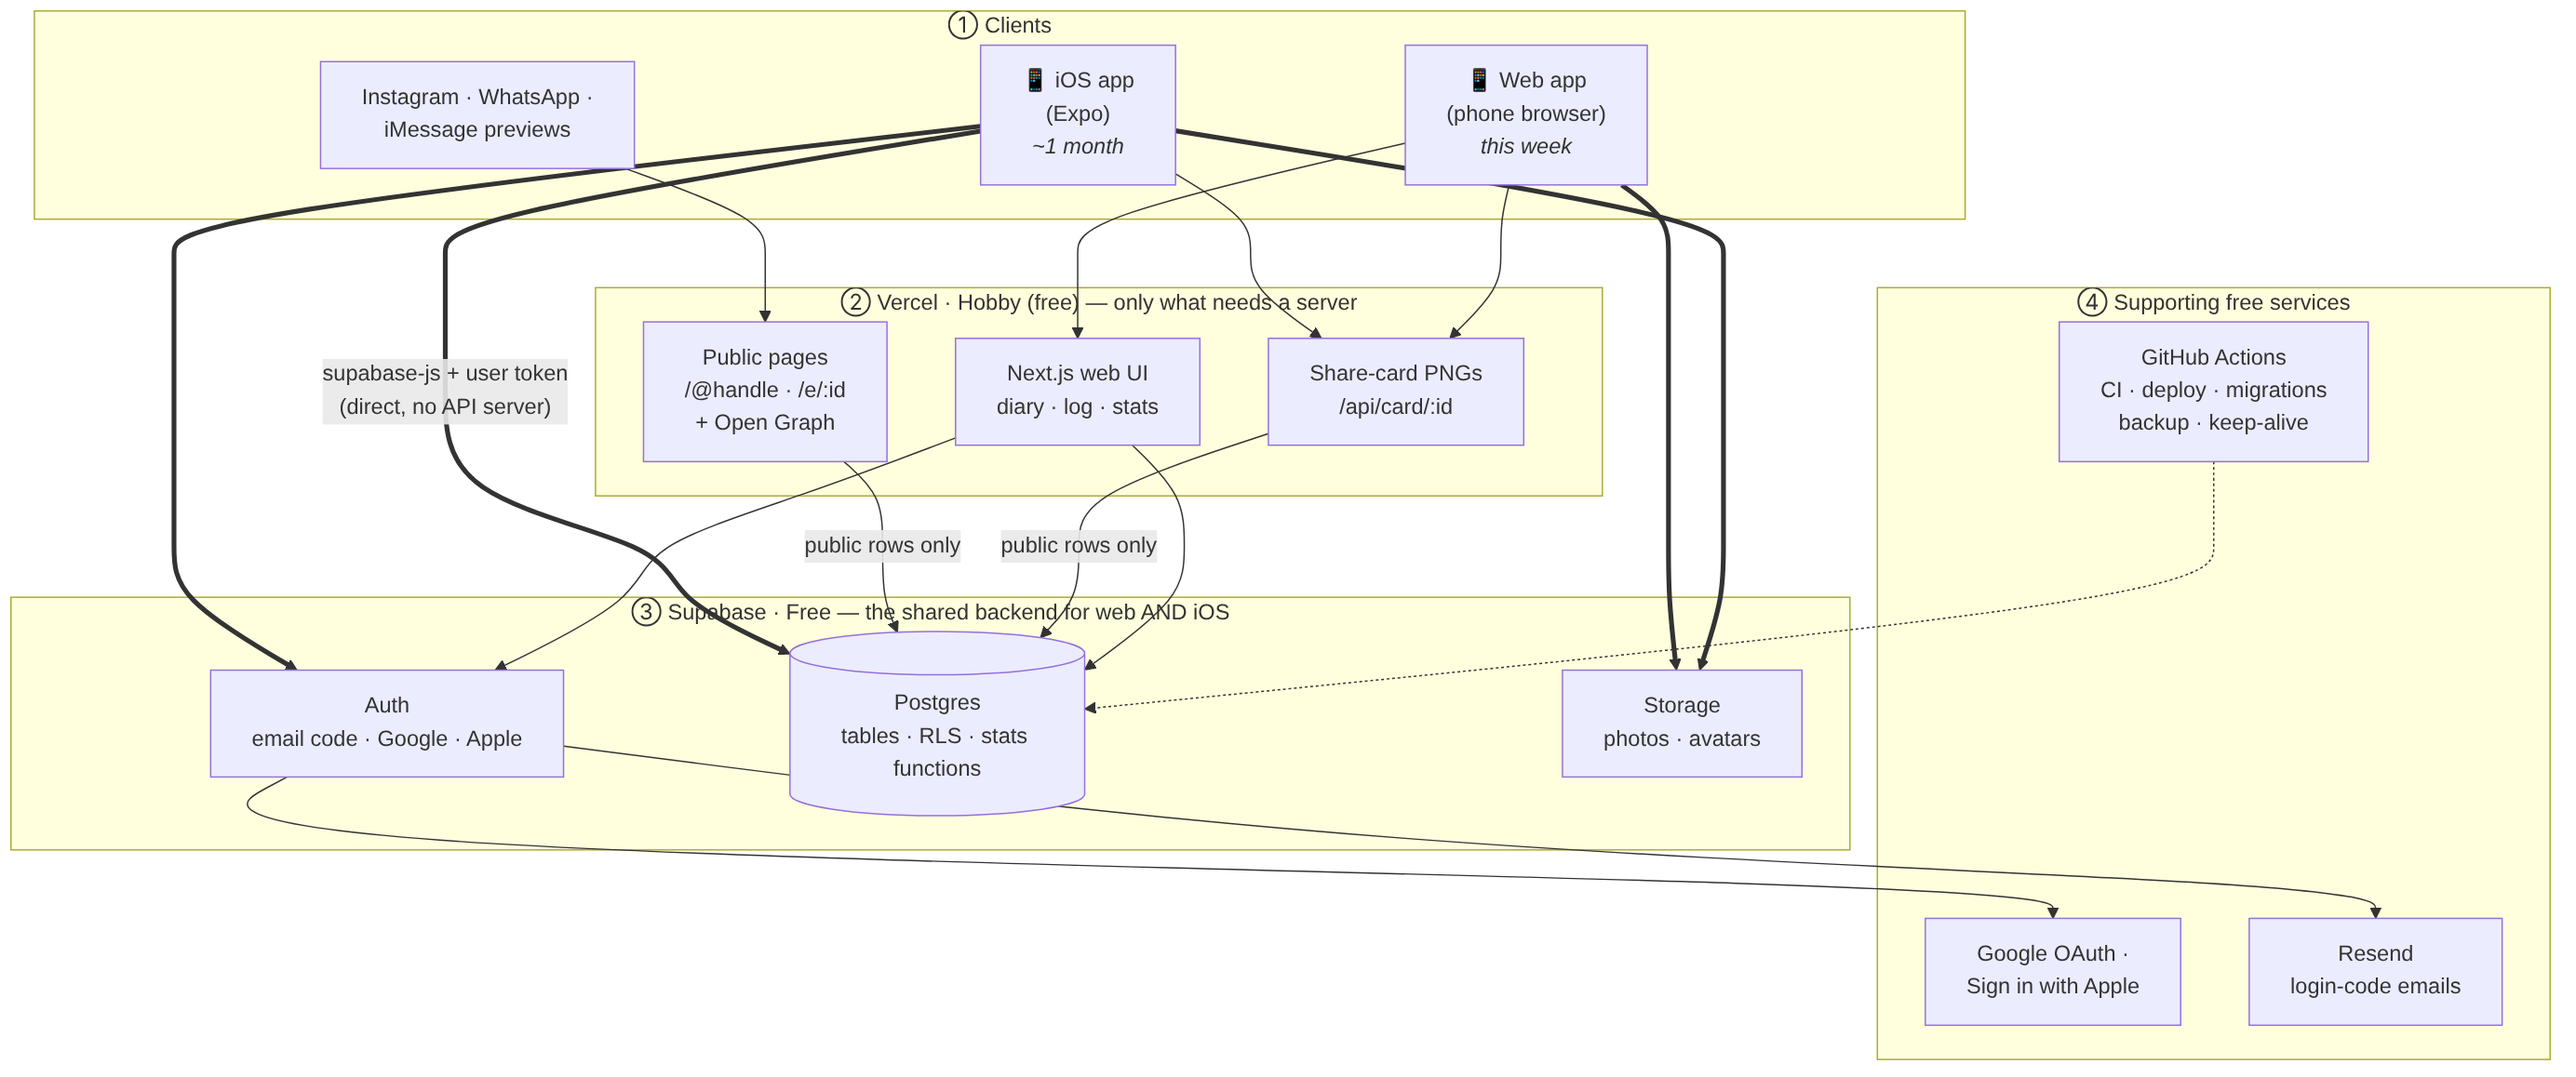
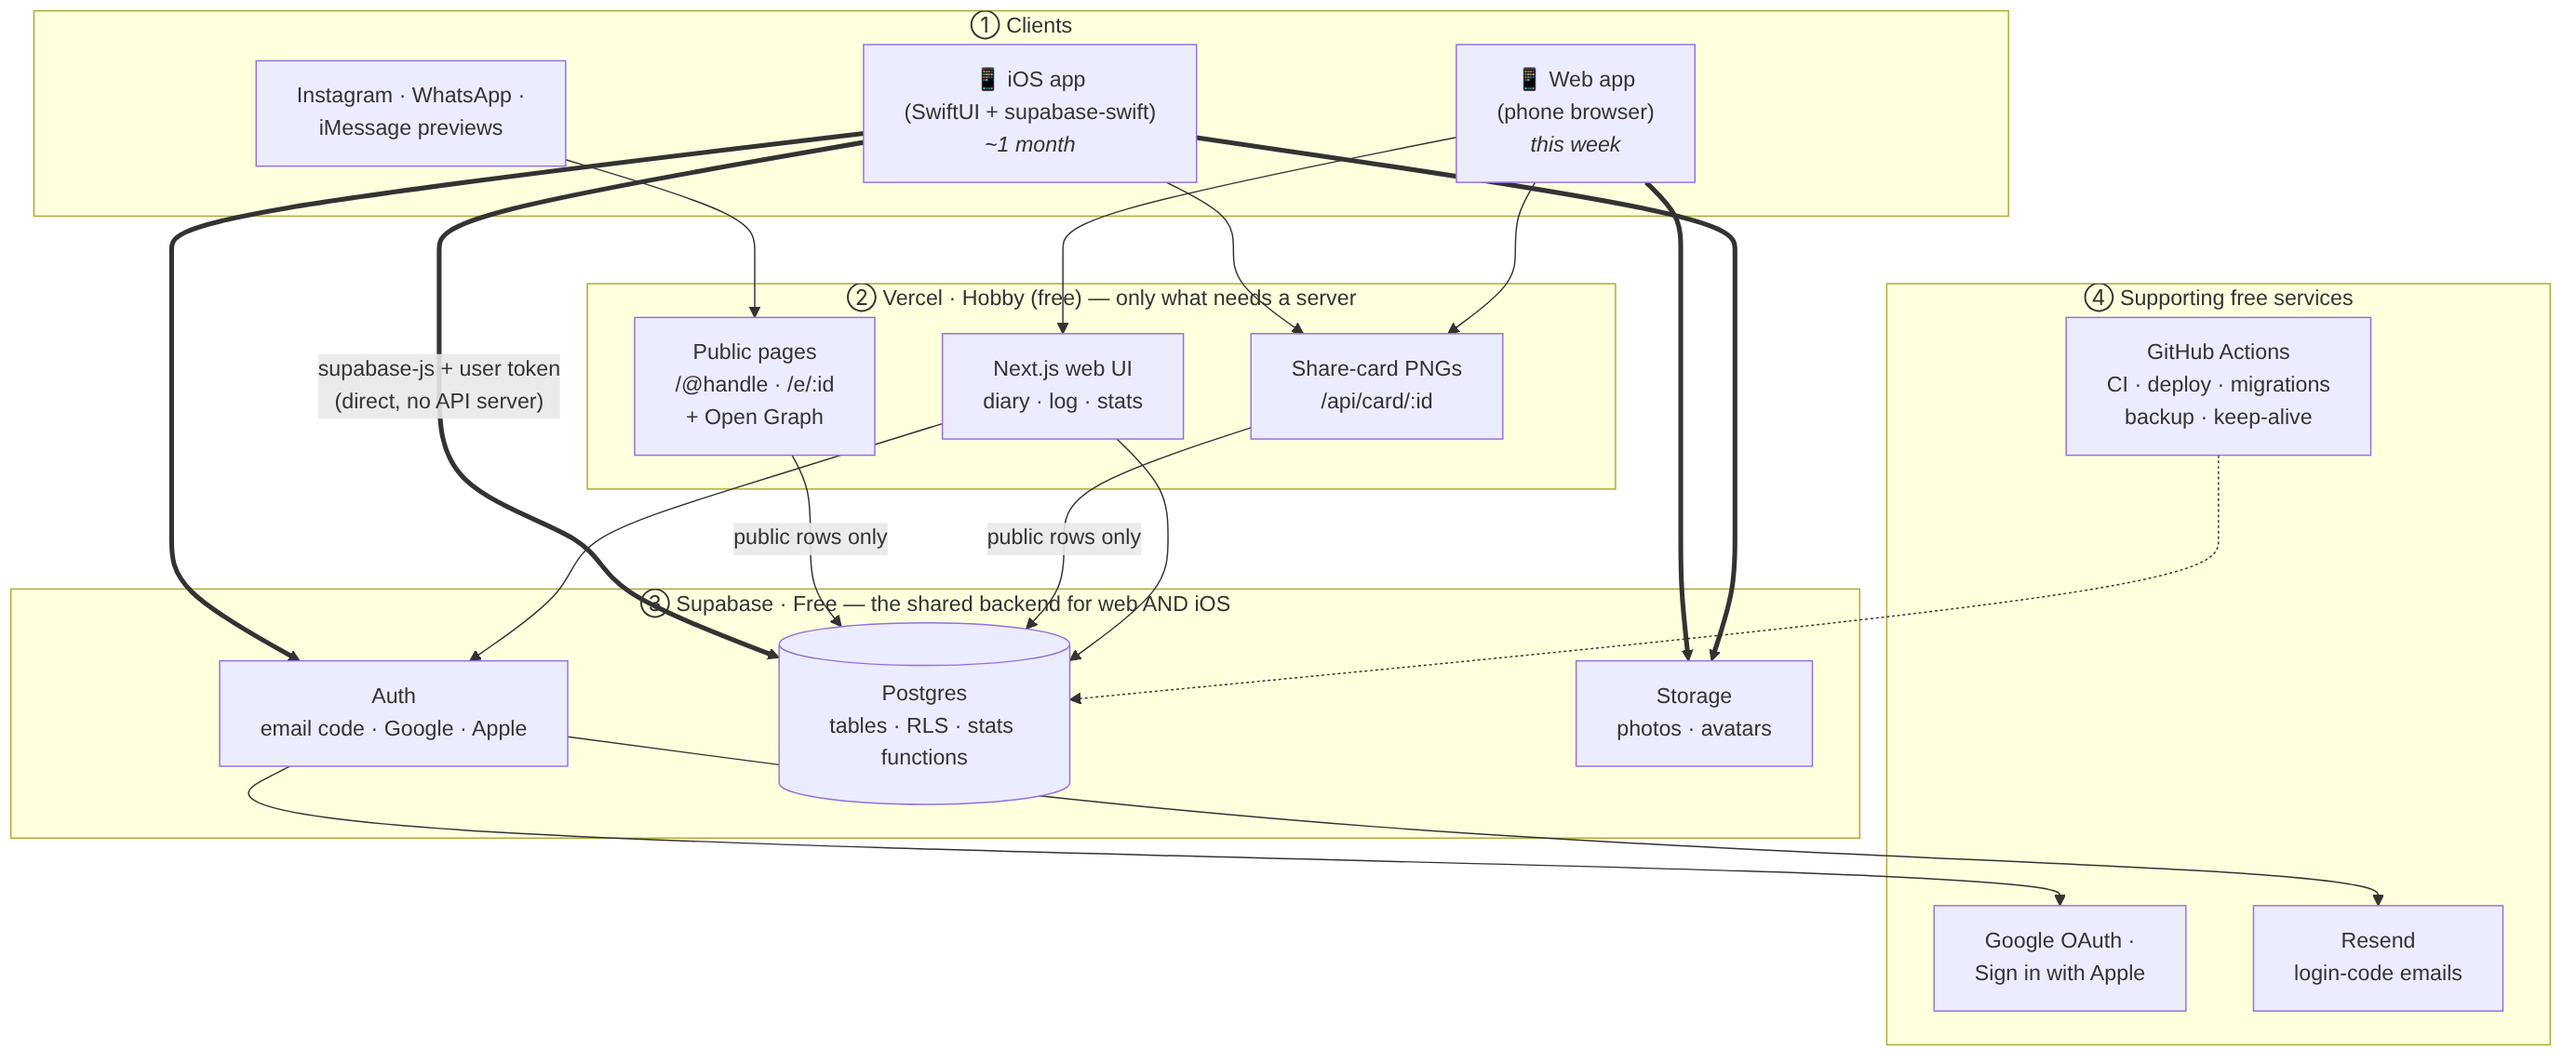
Record decisions: native SwiftUI for iOS, entries default to public
Claude-Session: https://claude.ai/code/session_01VvqxA56JYgsPsD6WTLWJTS

diff --git a/docs/ARCHITECTURE.md b/docs/ARCHITECTURE.md
@@ -27,7 +27,7 @@ flowchart TB
   subgraph clients["① Clients"]
     direction LR
     WEB["📱 Web app<br/>(phone browser)<br/><i>this week</i>"]
-    IOS["📱 iOS app<br/>(Expo)<br/><i>~1 month</i>"]
+    IOS["📱 iOS app<br/>(SwiftUI + supabase-swift)<br/><i>~1 month</i>"]
     SOC["Instagram · WhatsApp ·<br/>iMessage previews"]
   end
 
@@ -103,7 +103,7 @@ Free-tier limits change often. Check the vendor pricing pages before relying on 
 | Auth | **Supabase Auth** | Email one-time code, Google, Apple | 50,000 monthly active users |
 | File storage | **Supabase Storage** | Entry photos, avatars | 1 GB |
 | Login emails | **Resend** (via Supabase custom SMTP) | Sends sign-in codes | ~3,000/mo, 100/day |
-| iOS app | **Expo** (EAS Build free tier) | Builds and submits the iOS app | Limited free cloud builds/mo; local builds unlimited |
+| iOS app | **Xcode** + TestFlight | Build locally, beta-test via TestFlight | Free with the Apple Developer Program. Xcode Cloud includes some free build hours/mo if CI is wanted. Avoid macOS GitHub runners on a private repo: they burn free minutes at 10×. |
 | Code, CI, cron | **GitHub** + Actions | Repo, lint/test, migrations, backup, keep-alive | Free for public repos; 2,000 min/mo private |
 | Domain (optional) | Any registrar, **Cloudflare** DNS | Nicer share links than `*.vercel.app` | ~$10/yr |
 
@@ -120,10 +120,10 @@ Free-tier limits change often. Check the vendor pricing pages before relying on 
 - `CHECK` constraints: rating is `NULL` or in `{0.5, 1.0 … 5.0}`; the handle matches `^[a-z0-9_]{3,20}$` and is unique case-insensitively.
 - **RLS policies:**
   - The owner can do anything with their own rows.
-  - Anyone (including logged-out visitors) can `SELECT` entries where `visibility = 'public'` and the owner's profile is public.
+  - Anyone (including logged-out visitors) can `SELECT` entries where `visibility = 'public'`. **New entries default to public** (from `profiles.default_visibility`, which defaults to `'public'`); the log form shows the current setting and toggles per entry.
   - Shows and venues are readable by everyone; any logged-in user can insert them, and only the creator can edit their own unverified rows.
 - **Stats** are a SQL function (e.g. `user_stats(user_id)`) that respects visibility, so web, iOS and the public profile all show identical numbers.
-- Types are generated with `supabase gen types typescript` and shared by both apps.
+- Types are generated from the schema for each app: `supabase gen types --lang typescript` for web, `--lang swift` for iOS. The **schema is the contract** between the two codebases.
 
 ### 3. Vercel holds only what needs a server
 - `/api/card/[id]`: renders the Instagram Story card (1080×1920) with `next/og`, reading data through the **anon key**, which means RLS lets it see public entries only. Responses are cached at the edge, so crawlers and repeat shares don't re-render.
@@ -132,37 +132,40 @@ Free-tier limits change often. Check the vendor pricing pages before relying on 
 - Phase 2 adds `/api/import/email`, which calls an LLM with a server-side key. That's the first paid usage, and only a few pence.
 
 ### 4. Photos
-- Resize to roughly 1600px and **re-encode on the device before upload**: canvas on web, `expo-image-manipulator` on iOS. Re-encoding drops EXIF/GPS, and the free tier has no server-side image processing.
+- Resize to roughly 1600px and **re-encode on the device before upload**: canvas on web, `ImageIO`/`UIImage` JPEG re-encode on iOS. Re-encoding drops EXIF/GPS, and the free tier has no server-side image processing.
 - This keeps photos around 200–300 KB, so 1 GB of storage holds about 4,000 photos. **Storage is likely the first free-tier limit you'll hit.**
 - Phase 2 photo import reads EXIF **on the device** before stripping it. Only the extracted date and venue match are kept.
 
-### 5. iOS: Expo (React Native) over native Swift *(recommended, needs your call)*
-- **Pros:** it's TypeScript like the web app, so the generated DB types, validation (e.g. zod schemas), rating and date helpers and Supabase queries live in one shared package. Android comes almost free later. A solo builder can ship it in weeks.
-- **Cons:** it feels slightly less native than SwiftUI. Some iOS-only features (widgets, Live Activities) need native modules.
-- **If you'd rather write Swift:** the backend design doesn't change at all. Use `supabase-swift` against the same project. You'd just lose shared TypeScript code.
+### 5. iOS: native SwiftUI *(decided 2026-10-12)*
+- SwiftUI app using [`supabase-swift`](https://github.com/supabase/supabase-swift) against the **same** Supabase project as the web app: same users, same data, same RLS.
+- No code is shared with the web app, so **logic shared by both apps belongs in Postgres**, not in either client:
+  - validation lives in `CHECK` constraints;
+  - stats live in SQL functions (`user_stats`, etc.);
+  - search lives in a SQL function (e.g. `search_shows(q)` using `pg_trgm`).
+  Each client only renders and calls these. That stops the Swift and TypeScript versions drifting apart.
+- Sign in with Apple is native (`AuthenticationServices`) → `supabase.auth.signInWithIdToken`. Google uses the GoogleSignIn SDK the same way.
+- Sharing: the app fetches the same `/api/card/:id` PNG from Vercel and opens `ShareLink` / the share sheet. That gives one card design, not two.
+- Universal links: `/.well-known/apple-app-site-association` served by Next.js, so `/e/:id` links open in the app when it's installed.
 
-### 6. Repo layout (monorepo from day one, so iOS slots in without a reshuffle)
+### 6. Repo layout
 
 ```
 stubb/
-├── apps/
-│   ├── web/            # Next.js (this week)
-│   └── ios/            # Expo app (next month)
-├── packages/
-│   └── shared/         # DB types, zod schemas, rating/date/stats helpers
+├── web/                # Next.js (this week); Vercel root directory
+├── ios/                # Xcode project, SwiftUI (next month)
 ├── supabase/
-│   ├── migrations/     # SQL: tables, constraints, RLS, functions
+│   ├── migrations/     # SQL: tables, constraints, RLS, functions (the shared "API")
 │   ├── seed.sql        # London / NYC / Edinburgh venues + starter shows
 │   └── tests/          # RLS/privacy tests (pgTAP)
 └── docs/
 ```
 
-pnpm workspaces only. No Turborepo or Nx until the build gets slow enough to need one.
+One repo, so a schema change and both clients' updates can land in the same PR. No JS workspace tooling is needed, because only `web/` is JavaScript.
 
 ### 7. Environments
 | Environment | Database | Web |
 |---|---|---|
-| Local | `supabase start` (Docker, free, unlimited) | `pnpm dev` |
+| Local | `supabase start` (Docker, free, unlimited) | `npm run dev` in `web/`; iOS Simulator against local Supabase |
 | Preview | Supabase project #2 ("staging") | Vercel preview deploys per PR |
 | Production | Supabase project #1 | Vercel production (`main`) |
 

diff --git a/docs/DECISIONS.md b/docs/DECISIONS.md
@@ -7,9 +7,7 @@ A short log of choices made and why. Newest at the bottom. See `CLAUDE.md` for t
 | # | Question | Needed by | Notes |
 |---|----------|-----------|-------|
 | 1 | Confirm architecture in `docs/ARCHITECTURE.md` (Next.js on Vercel Hobby + Supabase Free) | Now | Proposed 2026-10-12 |
-| 2 | Default entry visibility (public vs. private) | Phase 0 (schema) | Must be clearly shown to the user |
 | 3 | Social logins | Now | Proposed: email code + Google now; add Apple before iOS ships (App Store rule 4.8) |
-| 6 | iOS framework: Expo (React Native) vs native SwiftUI | Before iOS work | Proposed: Expo, to share TypeScript code with web. Backend is identical either way. |
 | 4 | Email import method: paste-in vs. forwarding address vs. Gmail connect | Phase 2 | Brief suggests starting with paste-in |
 | 5 | Reactions / comments: include or defer | Phase 3 | |
 
@@ -20,3 +18,9 @@ Saved the brief as `CLAUDE.md` so every Claude Code session loads it automatical
 
 ### 2026-10-12: Web validation build this week, iOS app in about a month, $0/month
 The owner wants a quick web version to validate this week, then an iOS app sharing the same users and data, on free tiers only. This brings iOS forward from "Later". Proposed design: `docs/ARCHITECTURE.md`. Both clients talk directly to Supabase, with rules enforced by Postgres RLS. Vercel hosts only server-needing routes (share cards, public OG pages). No custom API server.
+
+### 2026-10-12: Entries default to public
+Owner's call, "for now". It maximises shareable content and supports the share-card acquisition loop. Safeguards: the visibility state is shown on the log form with a one-tap per-entry toggle; users can change their default to private in settings; RLS tests cover both states. Revisit if early users find it surprising.
+
+### 2026-10-12: iOS app is native SwiftUI
+Owner prefers native SwiftUI over Expo/React Native. Consequence: no shared client code, so logic both apps need (validation, stats, search) lives in Postgres (constraints, RLS, SQL functions). The schema is the contract; Swift types are generated with `supabase gen types --lang swift`. Repo layout is `web/`, `ios/`, `supabase/`.

diff --git a/CLAUDE.md b/CLAUDE.md
@@ -28,7 +28,7 @@ The owner is a solo indie builder doing this as a side project, so scope discipl
 3. **Low barrier to entry.** Logging a show should take under 20 seconds. Getting old history in (import) should be easy.
 4. **One simple data model.** An entry has an optional rating and an optional note. "Add a review later" is just editing the entry. Do not split reviews into a separate model.
 5. **Own the data.** Users can export their data (CSV). This is also a trust signal.
-6. **Privacy-respecting by default.** Strip EXIF/GPS metadata from any publicly served image. Entries are private or public per user setting; default to a sensible, clearly shown option. **[Decision needed: default visibility]**
+6. **Privacy-respecting by default.** Strip EXIF/GPS metadata from any publicly served image. Entries are private or public per user setting; default to a sensible, clearly shown option. **Decided: entries default to public** (see `docs/DECISIONS.md`).
 
 ## 5. Target geography for launch
 
@@ -68,7 +68,7 @@ London (West End + off-West End), New York (Broadway + Off-Broadway), Edinburgh 
 - Watchlist ("want to see").
 
 ### Later (explicitly out of scope for now)
-- Android app (an iOS app is now planned about a month after the web validation build; see `docs/ARCHITECTURE.md`).
+- Android app. (A native SwiftUI iOS app is now planned about a month after the web validation build; see `docs/ARCHITECTURE.md`.)
 - Any monetisation (the owner is sceptical of subscriptions for this audience; ideas like ticket affiliate links or printed wrap products may be revisited later).
 - Public API.
 
